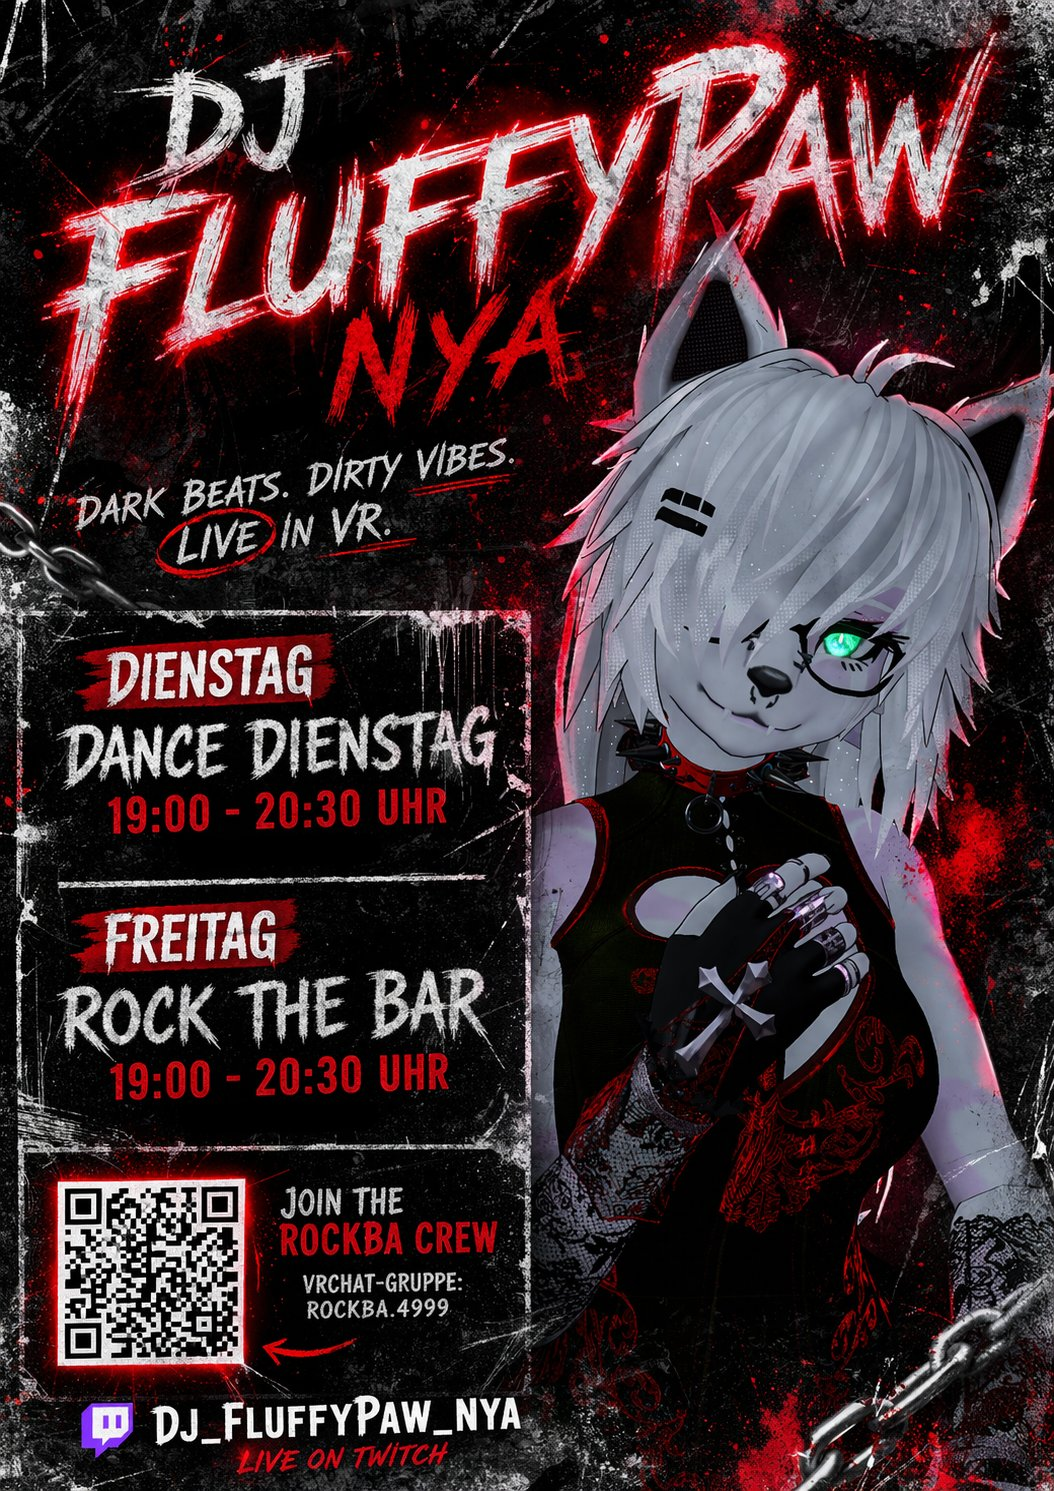
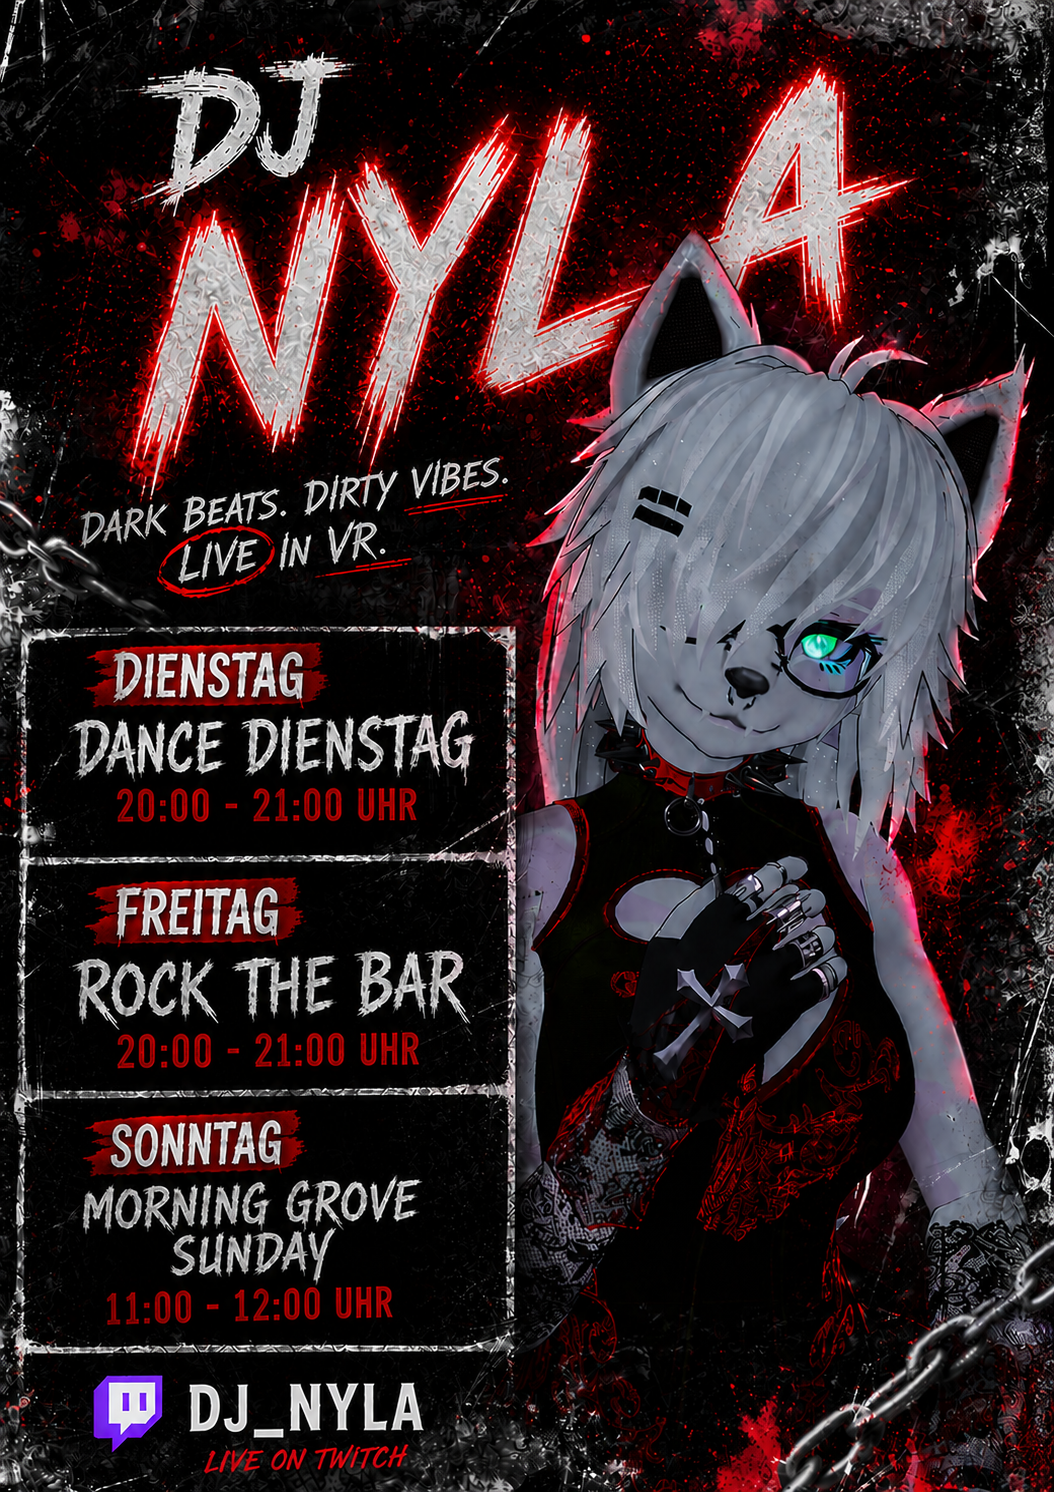
Add files via upload

diff --git a/index.html b/index.html
@@ -3,7 +3,7 @@
 <head>
   <meta charset="UTF-8" />
   <meta name="viewport" content="width=device-width, initial-scale=1.0" />
-  <title>Nyla</title>
+  <title>DJ Nyla</title>
   <link href="https://fonts.googleapis.com/css2?family=Orbitron:wght@400;700;900&family=Rajdhani:wght@300;400;600&display=swap" rel="stylesheet" />
   <style>
     :root {
@@ -1048,7 +1048,7 @@
 <body>
 
 <header>
-  <h1>Nyla</h1>
+  <h1>DJ Nyla</h1>
   <span class="subtitle">// Mixes, Sets & More</span>
   <nav class="main-nav">
     <button class="nav-btn active" onclick="showSection('home', this)">Home</button>
@@ -1247,7 +1247,7 @@
 
       <!-- Flyer -->
       <div style="flex-shrink: 0;">
-        <img src="flyer.png" alt="Nya Flyer" style="max-width: 320px; width: 100%; border-radius: 12px; border: 1px solid rgba(255,0,0,0.2);">
+        <img src="Flyer.png" alt="Nya Flyer" style="max-width: 320px; width: 100%; border-radius: 12px; border: 1px solid rgba(255,0,0,0.2);">
       </div>
 
       <!-- Geburtstags-Set Formular -->
